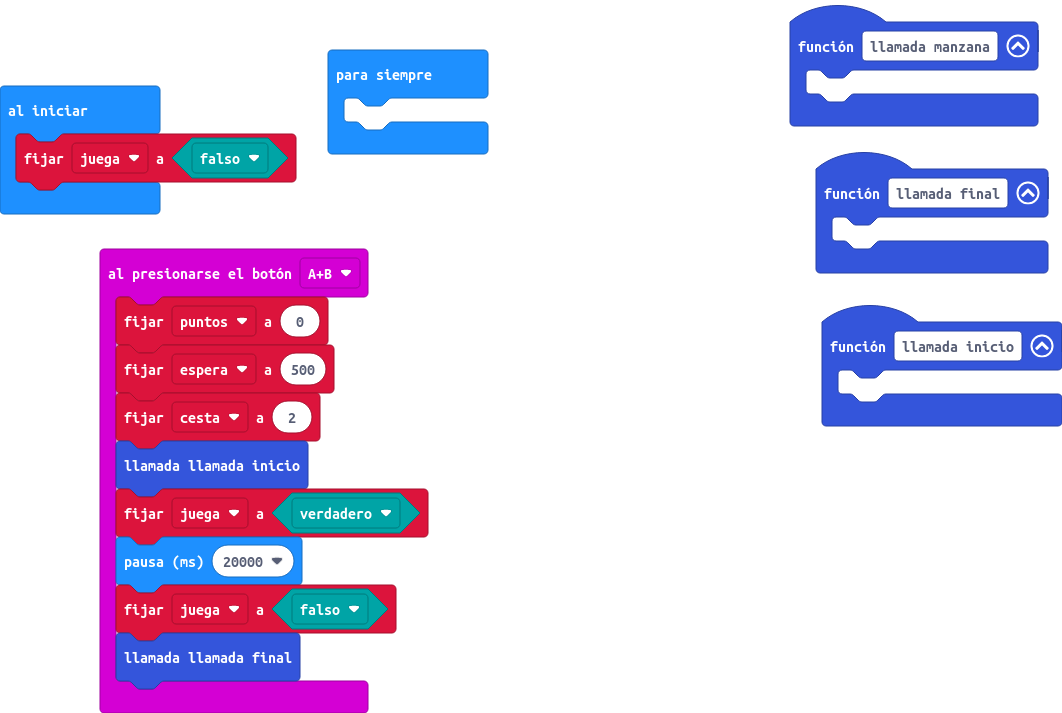
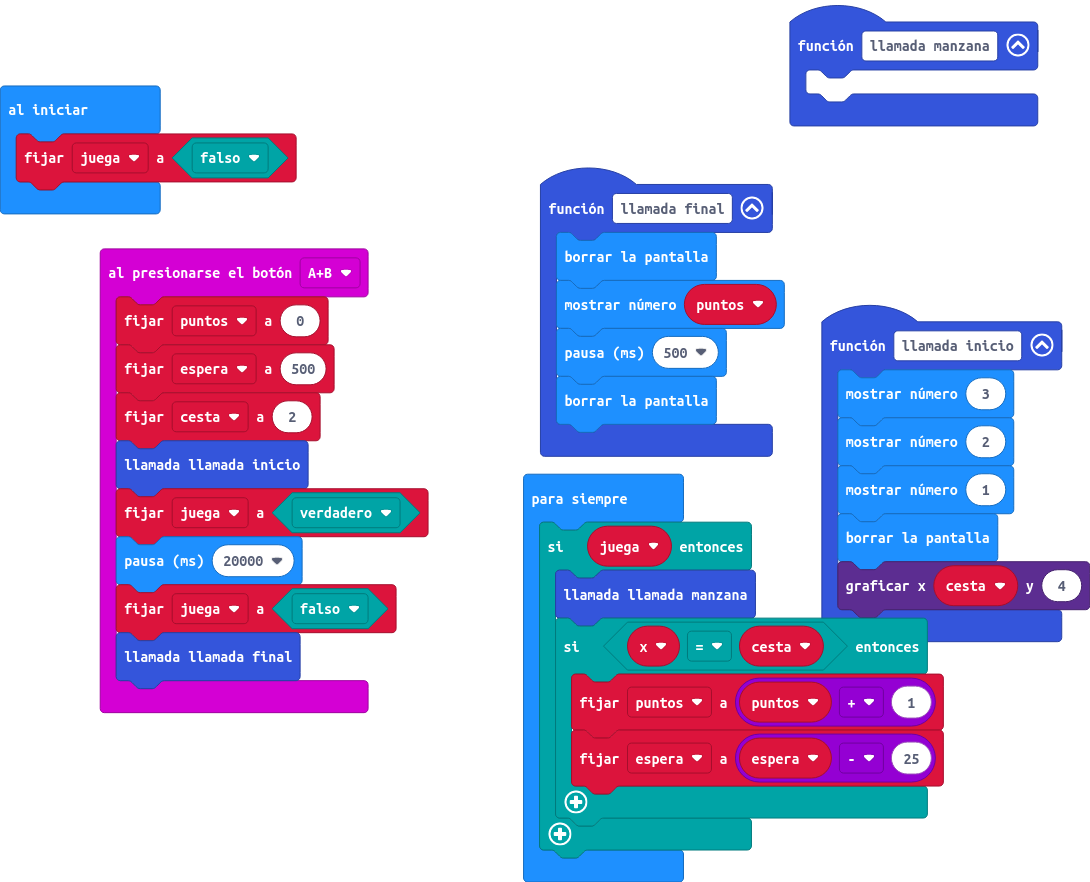
Actualizar main.blocks, main.ts

diff --git a/main.ts b/main.ts
@@ -2,10 +2,17 @@ function llamada_manzana () {
 	
 }
 function llamada_inicio () {
-	
+    basic.showNumber(3)
+    basic.showNumber(2)
+    basic.showNumber(1)
+    basic.clearScreen()
+    led.plot(cesta, 4)
 }
 function llamada_final () {
-	
+    basic.clearScreen()
+    basic.showNumber(puntos)
+    basic.pause(500)
+    basic.clearScreen()
 }
 input.onButtonPressed(Button.AB, function () {
     puntos = 0
@@ -17,11 +24,18 @@ input.onButtonPressed(Button.AB, function () {
     juega = false
     llamada_final()
 })
-let cesta = 0
 let espera = 0
 let puntos = 0
+let cesta = 0
 let juega = false
 juega = false
 basic.forever(function () {
-	
+    if (juega) {
+        let x = 0
+        llamada_manzana()
+        if (x == cesta) {
+            puntos = puntos + 1
+            espera = espera - 25
+        }
+    }
 })
